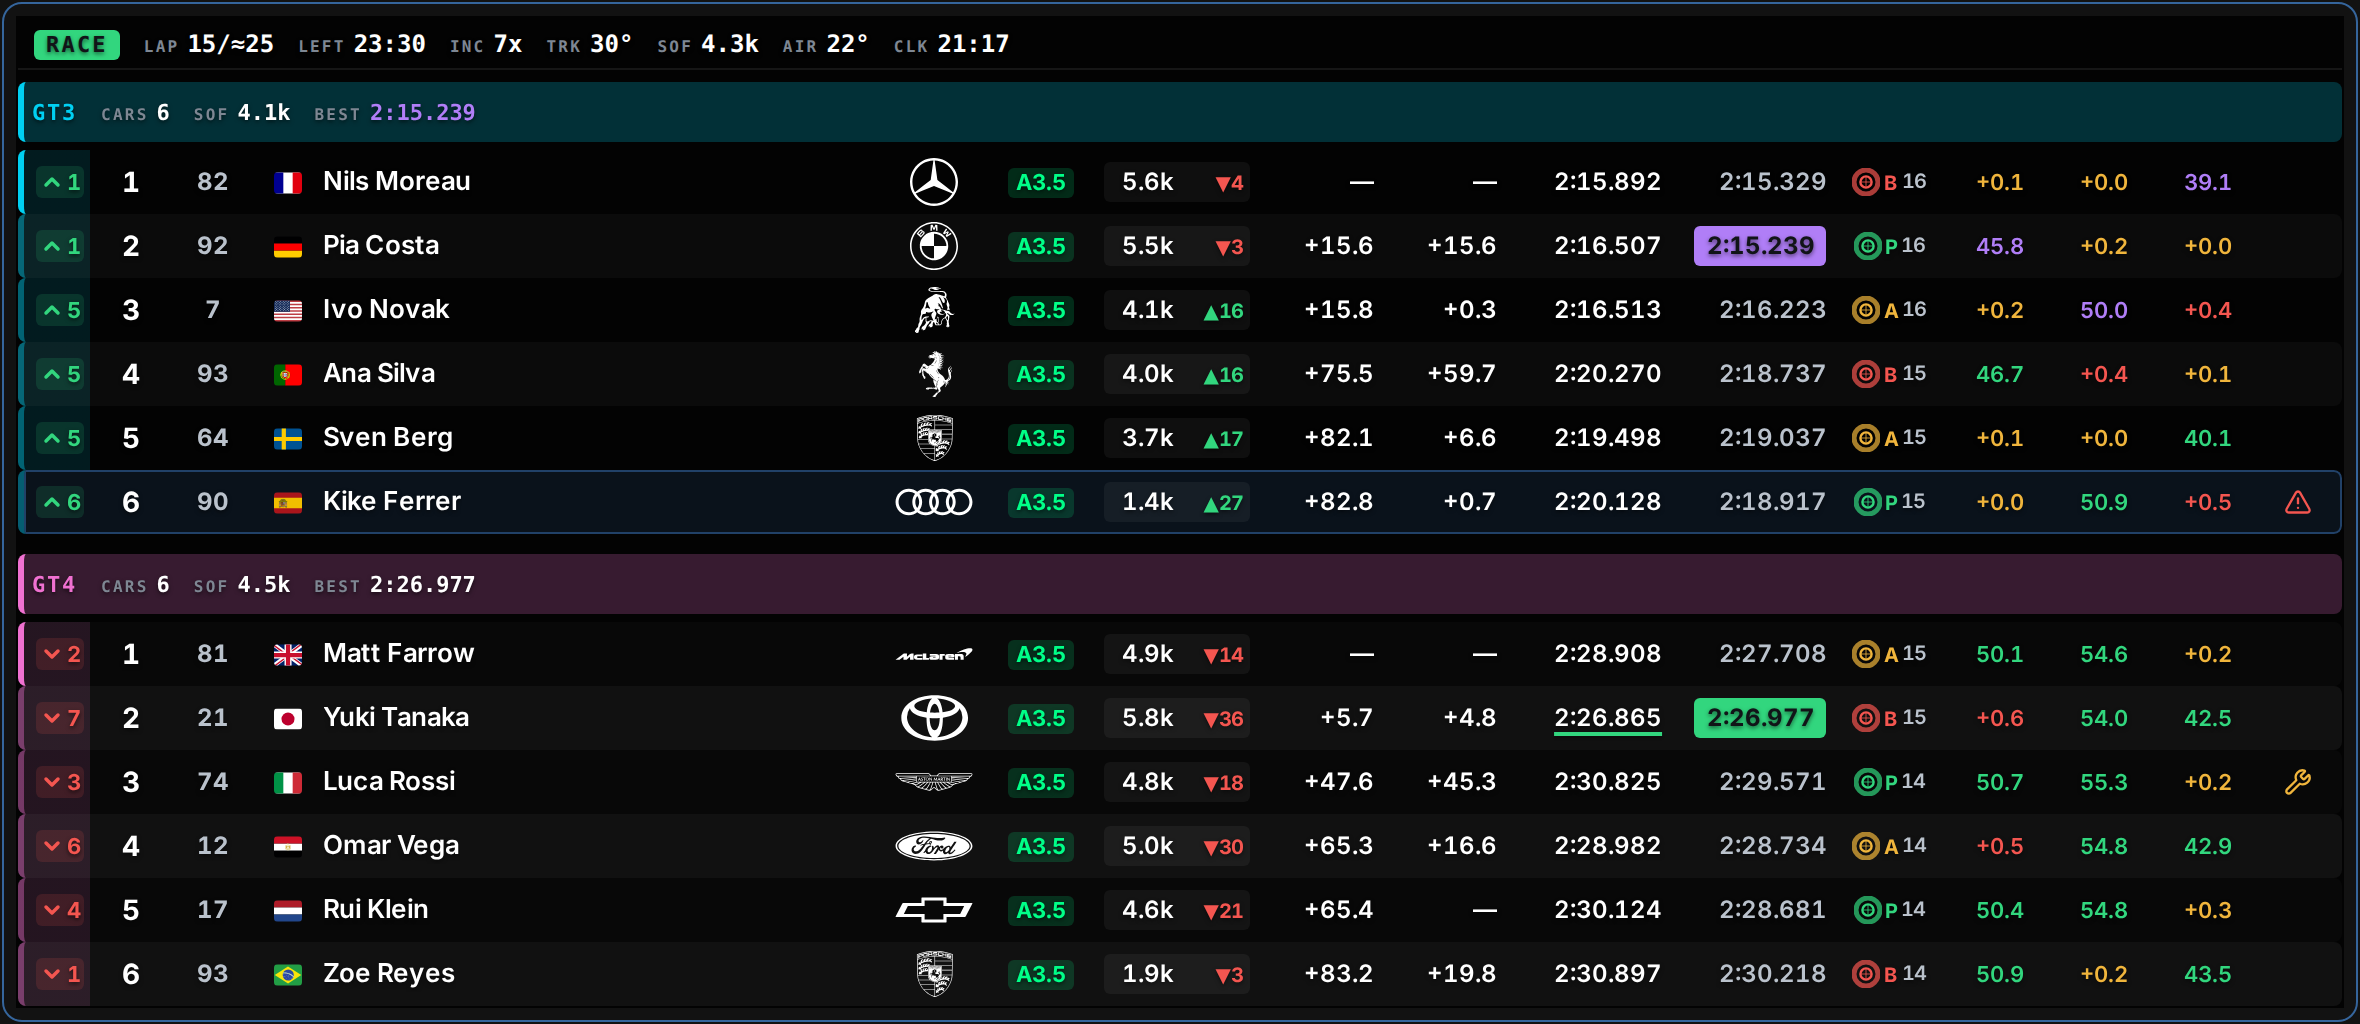
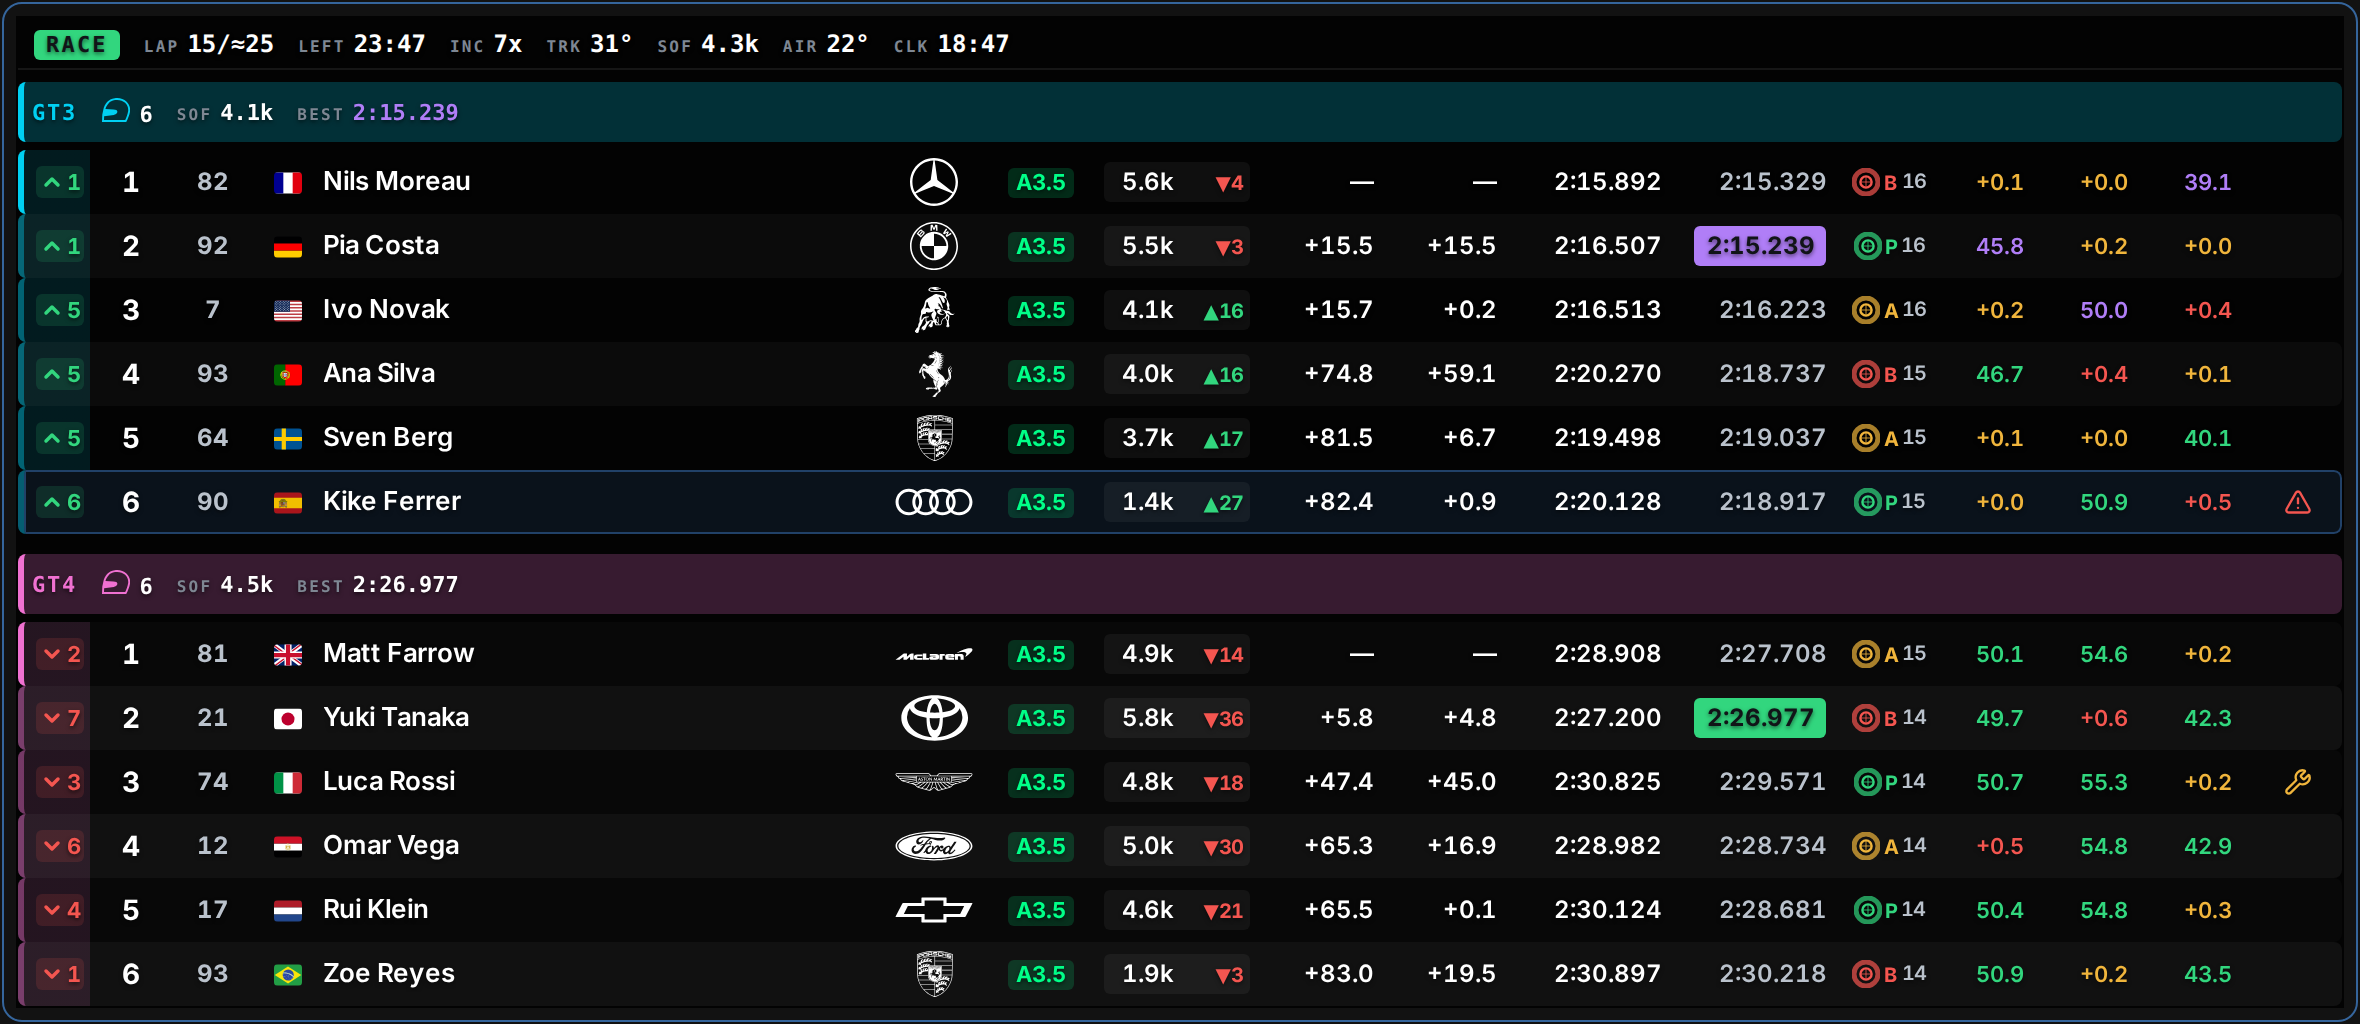
feat(standings): swap the class band's Cars label for a helmet glyph (#66)
* feat(standings): swap the class band's Cars label for a helmet glyph

The class band labelled its car count with the word `CARS`, alongside
`SoF` and `Best`. Three interchangeable mono labels flattened a real
distinction: `SoF` and `Best` are *measures* of a class, where the car
count is the population those measures are taken over. A helmet says so
at a glance, in the field's own vernacular.

The glyph takes the class's identity colour rather than the labels'
`text-faint`, which keeps the band's existing rule intact — colour is
identity, white is data — and gives an outline artwork the contrast it
needs, since at faint its strokes fall under a pixel and grey out.

Two details worth recording:

- The supplied `0 0 512 512` viewBox is cropped to `0 38 512 436`. The
  ink is inset 38 units top and bottom and not at all left or right, so
  the square box acts as a phantom descender and floats the helmet off
  the baseline its digits sit on.
- A glyph label pays back `paddingRight: 0.14em`. The tracked text
  labels contribute a trailing letter-space that a glyph does not, so
  without it the helmet lands visibly tighter against its value than the
  fields either side of it.

* feat(standings): update standings images to reflect new helmet glyph design

---------

diff --git a/src/components/ui/RacingHelmet.tsx b/src/components/ui/RacingHelmet.tsx
@@ -1,0 +1,81 @@
+/**
+ * A racing helmet in profile, used where a count of cars needs a label.
+ *
+ * It replaces the word `CARS` in the class band. The word was the odd one out
+ * there: `SoF` and `Best` name *measures* of a class, where the car count names
+ * the class's **population** — the thing the other two are measured over. A
+ * glyph draws that distinction where three interchangeable mono labels flattened
+ * it, and it does so in the field's own vernacular rather than in a generic
+ * pictogram, which is the same argument `SteeringWheel` makes against a
+ * deflection bar: a helmet does not need translating back into what it counts.
+ *
+ * Two things the artwork decided:
+ *
+ * - **The viewBox is `0 38 512 436`, not the `0 0 512 512` the file shipped
+ *   with.** The ink spans the full width of the square box but is inset 38 units
+ *   top and bottom, so a square box pads the glyph vertically and not at all
+ *   horizontally. Sized by height in a row of baseline-aligned text, that padding
+ *   is a phantom descender: it lifts the helmet off the digits' baseline by ~9 %
+ *   of its own height and leaves it floating. Cropping to the ink puts the
+ *   helmet's chin *on* the baseline, where the digits beside it sit.
+ * - **Both subpaths, no `fill-rule`.** The outer shell and the inner counter
+ *   wind opposite ways, so the default `nonzero` cuts the visor and the shell's
+ *   interior exactly as `evenodd` would. Naming a rule here would imply the two
+ *   differ, and the next person would have to check whether it mattered.
+ */
+
+/** The outline, verbatim as supplied — outer shell, then the counter. */
+const HELMET_PATH =
+  "M443.754,100.589c-42.488-38.948-101.656-62.589-168.532-62.572c-14.333,0-29.029,1.084-43.994,3.345h0.012c-58.544,8.685-105.082,33.862-138.727,71.035C58.8,149.528,34.46,197.852,23.824,252.531L5.366,337.568L0,473.983h438.046l5.247-6.365c15.622-19.077,29.682-61.881,41.482-91.725c11.705-29.827,20.852-62.18,25.032-91.384c1.476-10.298,2.193-20.502,2.193-30.552C512.034,193.927,486.26,139.477,443.754,100.589z M475.219,279.569c-3.652,25.68-12.14,56.036-22.968,83.534c-9.299,23.769-20.552,61.258-31.072,75.932H36.533l2.474-71.428l177.495-22.78c0,0,61.416-10.238,63.122-55.431c1.152-30.698-27.656-38.632-71.654-40.944l-145.488-8.652c10.524-41.643,31.329-76.888,55.896-103.908c28.368-31.108,66.317-52.129,118.05-59.979l8.639-1.296l-8.626,1.296c13.258-1.996,26.205-2.952,38.78-2.952c58.661,0.018,109.143,20.613,144.925,53.392c35.766,32.847,56.873,77.63,56.907,127.601C477.054,262.343,476.456,270.892,475.219,279.569z";
+
+/**
+ * Width of the cropped viewBox over its height.
+ *
+ * Written out rather than left to `width: auto`. An SVG with a viewBox and one
+ * axis set does resolve the other from the aspect ratio, but the result is a
+ * used value the flex layout resolves a step later — and this glyph sits in a
+ * `shrink-0` row whose fields drop by measured width. A number here keeps the
+ * helmet's footprint knowable at layout time on any engine, which matters more
+ * than saving the constant, given the app ships against two different webviews.
+ */
+const ASPECT = 512 / 436;
+
+export interface RacingHelmetProps {
+  /**
+   * CSS length for the glyph's **height**; width follows from {@link ASPECT}.
+   *
+   * Height rather than a square `size` because the helmet is landscape, and
+   * because what it has to agree with is the height of the digits it labels.
+   */
+  size: string;
+  /**
+   * What the glyph says, for anyone not looking at it.
+   *
+   * Required, with no default. The helmet stands in for a word that used to be
+   * on screen, so there is no reading of this component where the name is
+   * optional — and the right name depends on the count beside it, which only
+   * the call site knows.
+   */
+  label: string;
+}
+
+export function RacingHelmet({ size, label }: RacingHelmetProps) {
+  return (
+    <svg
+      viewBox="0 38 512 436"
+      role="img"
+      aria-label={label}
+      style={{
+        height: size,
+        width: `calc(${size} * ${ASPECT})`,
+        flexShrink: 0,
+        // Baseline alignment in the band works on the box's bottom edge, which
+        // the cropped viewBox has already put on the helmet's chin. `block`
+        // stops an inline box adding a line-height gap under it and undoing that.
+        display: "block",
+      }}
+    >
+      <path d={HELMET_PATH} fill="currentColor" />
+    </svg>
+  );
+}

diff --git a/src/components/standings/ClassBand.tsx b/src/components/standings/ClassBand.tsx
@@ -1,7 +1,8 @@
-import { memo } from "react";
+import { memo, type ReactNode } from "react";
 import type { ClassStanding } from "../../telemetry/types";
 import { kilo, lapTime } from "../../lib/format";
 import { classBandFill } from "../../lib/classColors";
+import { RacingHelmet } from "../ui/RacingHelmet";
 import { CLASS_EDGE_WIDTH } from "./constants";
 
 
@@ -85,7 +86,21 @@ function ClassBandInner({
         {shortName || "—"}
       </span>
 
-      <BandField label="Cars" value={carCount > 0 ? String(carCount) : "—"} />
+      {/* The car count wears a helmet where the other two fields wear words.
+          Not decoration, and not an inconsistency either: `SoF` and `Best` are
+          *measures* of a class, this is the population they are measured over,
+          and a glyph is what says so at a glance. It takes the class's colour
+          for the same reason the name above it does — on this band colour is
+          identity and white is data, so the label joins the chip and the value
+          stays with the numbers. That also buys the contrast the artwork needs:
+          it is an outline, and at `text-faint` its strokes fall under a pixel
+          and grey out into a smudge. */}
+      <BandField
+        label={<RacingHelmet size="12px" label="Cars" />}
+        value={carCount > 0 ? String(carCount) : "—"}
+        labelColor={color}
+        title="Cars in class"
+      />
       {fits(width, 230) && <BandField label="SoF" value={kilo(sof)} />}
       {fits(width, 300) && (
         <BandField
@@ -114,16 +129,39 @@ function BandField({
   label,
   value,
   color,
+  labelColor,
   title,
 }: {
-  label: string;
+  /**
+   * A mono micro-label, or a glyph standing in for one. Anything passed here
+   * has to carry its own accessible name — see {@link RacingHelmet}.
+   */
+  label: ReactNode;
   value: string;
   color?: string;
+  /**
+   * Overrides the label's `text-faint`. Only the helmet uses it: faint is the
+   * right weight for a word and too little for a sub-pixel outline.
+   */
+  labelColor?: string;
   title?: string;
 }) {
+  // `tracking-[0.14em]` puts a trailing letter-space after a word's last
+  // character, so a text label's `gap-1` is really 4 px + 1.12 px. A glyph gets
+  // no such trailing space and lands visibly tighter against its value than the
+  // fields either side of it. Paying it back in the same unit that owes it keeps
+  // the three gaps identical, and stays correct if the tracking is ever retuned.
+  const isGlyph = typeof label !== "string";
+
   return (
     <span className="flex shrink-0 items-baseline gap-1" title={title}>
-      <span className="font-mono text-[8px] font-semibold uppercase leading-none tracking-[0.14em] text-faint">
+      <span
+        className="font-mono text-[8px] font-semibold uppercase leading-none tracking-[0.14em] text-faint"
+        style={{
+          ...(labelColor ? { color: labelColor } : null),
+          ...(isGlyph ? { paddingRight: "0.14em" } : null),
+        }}
+      >
         {label}
       </span>
       <span
